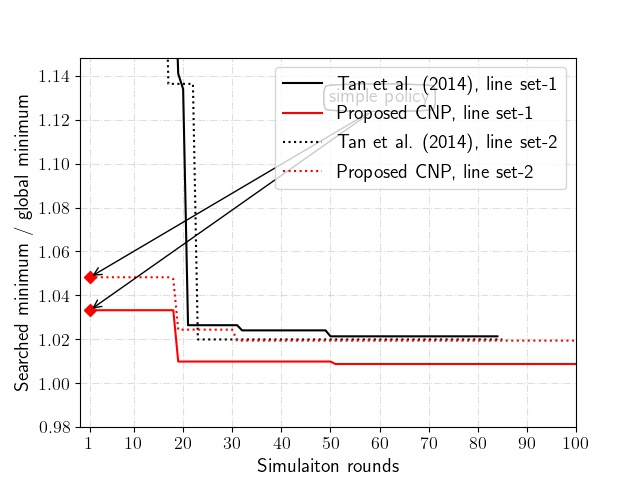
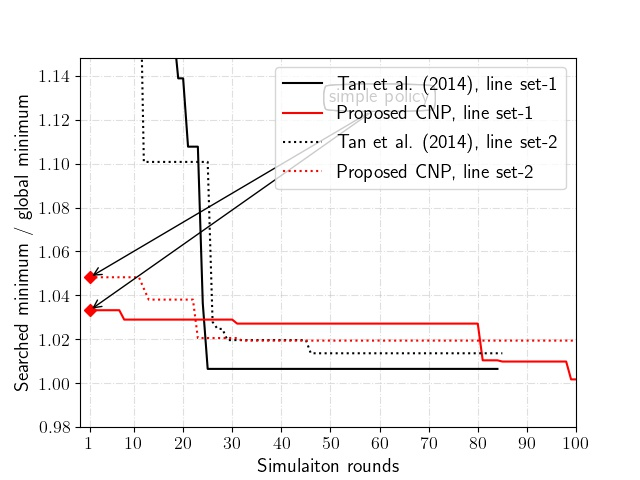
added c=4 plotting

Changed region(s): [[0.1875, 0.125, 0.9062, 0.8125], [0.2188, 0.3125, 0.25, 0.3438]]

diff --git a/plot_c=4.py b/plot_c=4.py
@@ -44,8 +44,8 @@ sorted_perturb_delays = np.sort(perturb_delays)
 
 # ### generate figures for each queueing rule
 fig, ax = get_curve_plot(
-    x_label="Number of randomly-generated allocation plans",
-    y_label="Average bus delay in desceding order",
+    x_label="Number of allocation plans simulated",
+    y_label="Average bus delay",
     x_font=15,
     y_font=15,
 )
@@ -60,34 +60,35 @@ cnp_x = np.arange(1, len(cnp_delays) + 1, 1)
 # # ### plot
 ax.set_xticks(x_ticks)
 ax.tick_params(axis="both", which="major", labelsize=14)
-ax.set_xlim([1, 500])
-ax.set_ylim([60, 80])
+ax.set_xlim([-10, 500])
+ax.set_ylim([65, 110])
 ax.plot(
     perturb_x,
     sorted_perturb_delays,
     linestyle="dotted",
     color="k",
-    label="random perturbation in descending order",
+    label="Uniformly sampling, sorted in ascending order",
 )
 ax.plot(cnp_x, cnp_delays, linestyle="solid", color="k", label="Proposed CNP method")
+ax.legend()
 
+# ax.hlines(sorted_perturb_delays[0], 0, 500, "k", "dashed")
 
-# ax.plot(
-#     x, [simple_delay] * len(x), linestyle="dashed", color="k", label="simple policy"
-# )
-
-# ax.annotate(
-#     "simple policy",
-#     xy=(20, simple_delay),
-#     xytext=(150, simple_delay + 40),
-#     size=15,
-#     va="center",
-#     ha="center",
-#     bbox=dict(boxstyle="round4", fc="w"),
-#     arrowprops=dict(
-#         arrowstyle="->", connectionstyle="arc3,rad=0.0", relpos=(0.0, 0.0), fc="w",
-#     ),
-# )
+ax.annotate(
+    "simple policy",
+    xy=(1, cnp_delays[0]),
+    xytext=(100, cnp_delays[0] + 20),
+    size=14,
+    va="center",
+    ha="center",
+    bbox=dict(boxstyle="round4", fc="w"),
+    arrowprops=dict(
+        arrowstyle="->", connectionstyle="arc3,rad=0.0", relpos=(0.5, 0.0), fc="w",
+    ),
+)
+ax.plot(
+    cnp_x[0], cnp_delays[0], "rD",
+)
 
 if signal_setting is not None:
     fig_str = (

diff --git a/tan_algo.py b/tan_algo.py
@@ -1,3 +1,4 @@
+import time
 from numpy import random
 from sim_results import get_delay_of_discrete_plan
 from arena import (
@@ -33,7 +34,9 @@ def get_global_min_delay(stop_setting, signal_setting=None):
         run_df = get_run_df_from_db(stop_setting)
     else:
         run_df = get_run_df_from_near_stop_db(stop_setting, signal_setting)
-    run_df["final_delay"] = run_df.delay_seq.apply(lambda x: x[-1] if type(x) is not float else 1000.0)
+    run_df["final_delay"] = run_df.delay_seq.apply(
+        lambda x: x[-1] if type(x) is not float else 1000.0
+    )
     return run_df["final_delay"].min().item()
 
 
@@ -59,6 +62,9 @@ def apply_tan_algo(algo_setting, stop_setting, signal_setting=None):
         run_df = get_run_df_from_db(stop_setting)
     else:
         run_df = get_run_df_from_near_stop_db(stop_setting, signal_setting)
+
+    ### algorithm start
+    algo_start_time = time.time()
 
     ### create optimization stats object for recording
     opt_stats = Opt_Stats()
@@ -130,5 +136,7 @@ def apply_tan_algo(algo_setting, stop_setting, signal_setting=None):
 
     # print(opt_stats.history_min_delays)
     print("--------- end iteration -----------")
+
+    print("Tan's algorithm running time is:", time.time() - algo_start_time)
 
     return opt_stats.history_min_delays

diff --git a/signal_main_perturb.py b/signal_main_perturb.py
@@ -6,9 +6,8 @@ from signal_experiment import signal_ex
 
 @signal_ex.config
 def config():
-    seed = 1
-    queue_rule = "FO-Bus"
-    # queue_rule = "LO-Out"
+    seed = 66
+    queue_rule = "FIFO"
     berth_num = 4
     line_num = 12
     total_flow = None
@@ -18,13 +17,13 @@ def config():
     is_CNP = False  # True means using CNP, otherwise means perturbation
     cycle_length = 120
     green_ratio = 0.5
-    buffer_size = 3
+    buffer_size = 2
 
 
 def run(assign_plan_str):
     if not signal_ex.observers:
         signal_ex.observers.append(
-            MongoObserver(url="localhost:27017", db_name="perturb_stop")
+            MongoObserver(url="localhost:27017", db_name="c4_case")
         )
     run = signal_ex.run(config_updates={"assign_plan_str": assign_plan_str})
 
@@ -32,7 +31,7 @@ def run(assign_plan_str):
 perturb_num = 500
 berth_num, line_num = config()["berth_num"], config()["line_num"]
 enumerator = random_assign_plan_enumerator(line_num, berth_num, perturb_num)
-with futures.ProcessPoolExecutor(max_workers=22) as executor:
+with futures.ProcessPoolExecutor(max_workers=16) as executor:
     tasks = [executor.submit(run, str(assign_plan)) for assign_plan in enumerator]
     for future in futures.as_completed(tasks):
         pass

diff --git a/cnp_algo.py b/cnp_algo.py
@@ -1,3 +1,4 @@
+import time
 from numpy import random
 from sim_results import get_delay_of_continuous
 from arena import (
@@ -30,6 +31,7 @@ class Opt_Stats(object):
             pass
 
     def is_budget_run_out(self):
+        print("current eval count:", self.eval_count)
         return False if self.eval_count < self.sim_budget else True
 
 
@@ -73,6 +75,9 @@ def apply_cnp_algo(algo_setting, stop_setting, signal_setting=None):
             "buffer_size": buffer_size,
         }
         run_df = get_run_df_from_near_stop_db(stop_setting, signal_setting)
+
+    ### algorithm start
+    algo_start_time = time.time()
 
     ### find start point and its located region of maximum depth
     curr_promising_region_id = -1
@@ -188,5 +193,7 @@ def apply_cnp_algo(algo_setting, stop_setting, signal_setting=None):
                     opt_stats.curr_promising_region_id = best_child_region_id
     print("--------- end iteration -----------")
     # print(opt_stats.min_delay_so_far, opt_stats.eval_count)
+
+    print("cnp algorithm running time is:", time.time() - algo_start_time)
 
     return opt_stats.history_min_delays

diff --git a/signal_main_cnp.py b/signal_main_cnp.py
@@ -1,9 +1,5 @@
 from sacred.observers import MongoObserver
 from sacred import Experiment
-from concurrent import futures
-from arena import random_assign_plan_enumerator
-from line_profile import get_generated_line_info
-from isolated_scenario import sim_one_isolated_scenario
 from cnp_algo import apply_cnp_algo
 
 ### for c=4 case, directly simulate, (without accessing the cache)
@@ -11,6 +7,7 @@ cnp_ex = Experiment()
 
 if not cnp_ex.observers:
     cnp_ex.observers.append(MongoObserver(url="localhost:27017", db_name="c4_case"))
+    # cnp_ex.observers.append(MongoObserver(url="localhost:27017", db_name="ggg"))
 
 
 @cnp_ex.config
@@ -37,7 +34,10 @@ def config():
     )
 
     # signal
-    signal_setting = None
+    cycle_length = 120
+    green_ratio = 0.5
+    buffer_size = 3
+    signal_setting = (cycle_length, green_ratio, buffer_size)
 
     # algorithm
     sample_num_of_each_region = 10

diff --git a/isolated_main_perturb.py b/isolated_main_perturb.py
@@ -6,7 +6,7 @@ from experiment import ex
 
 @ex.config
 def config():
-    seed = 1
+    seed = 6
     queue_rule = "FIFO"
     # queue_rule = "LO-Out"
     berth_num = 4
@@ -32,7 +32,7 @@ def run(assign_plan_str):
 perturb_num = 500
 berth_num, line_num = config()["berth_num"], config()["line_num"]
 enumerator = random_assign_plan_enumerator(line_num, berth_num, perturb_num)
-with futures.ProcessPoolExecutor(max_workers=22) as executor:
+with futures.ProcessPoolExecutor(max_workers=21) as executor:
     tasks = [executor.submit(run, str(assign_plan)) for assign_plan in enumerator]
     for future in futures.as_completed(tasks):
         pass

diff --git a/region.py b/region.py
@@ -23,7 +23,7 @@ class Region(object):
 
         # store pre-sample data
         self.pre_sample_points = []
-        self.pre_sample_size = 200
+        self.pre_sample_size = 400
 
     def evaluate_children_return_best(
         self,
@@ -65,7 +65,7 @@ class Region(object):
             assign_plan, delay = get_delay_of_continuous(
                 line_flow, line_service, continuous_vector, run_df, sim_info
             )
-            print("evaluated one plan's delay:", delay)
+            # print("evaluated one plan's delay:", delay)
             if assign_plan is not None:
                 return assign_plan, delay
 

diff --git a/signal_scenario.py b/signal_scenario.py
@@ -23,10 +23,10 @@ def sim_one_NS_scenario(
     ######## hyper-parameters ########
     max_tolerance_delay = paras.max_tolerance_delay  # seconds
     each_eval_interval = 3600 * 10
-    total_eval_num = 220  # 600
+    total_eval_num = 150  # 600
     epoch_num = total_eval_num * each_eval_interval  # the total number of epochs
 
-    minimum_eval_num = 100  # 150
+    minimum_eval_num = 50  # 150
     minimum_epoch_num = minimum_eval_num * each_eval_interval
     std_num = (
         20  # 20 # if the last *std_num* of mean_seq is greater than threshold, return

diff --git a/algo_main.py b/algo_main.py
@@ -11,16 +11,16 @@ def config():
     mean_service = 25  # seconds
 
     # signal
-    signal_paras = None
+    # signal_paras = None
     # signal_paras = {"cycle_length": 120, "green_ratio": 0.5, "buffer_size": 3}
 
-    cycle_length = None
-    green_ratio = None
-    buffer_size = None
+    # cycle_length = None
+    # green_ratio = None
+    # buffer_size = None
 
-    # cycle_length = 120
-    # green_ratio = 0.5
-    # buffer_size = 3
+    cycle_length = 120
+    green_ratio = 0.5
+    buffer_size = 3
 
     # algorithm
     # algorithm = "Tan"

diff --git a/arena.py b/arena.py
@@ -213,7 +213,7 @@ def get_run_df_from_near_stop_db(stop_setting, signal_setting):
 
 def get_case_df_from_db(stop_setting, signal_setting, algorithm):
     client = MongoClient("localhost", 27017)
-    db = client["case"]
+    db = client["c2_case"]
 
     (
         queue_rule,
